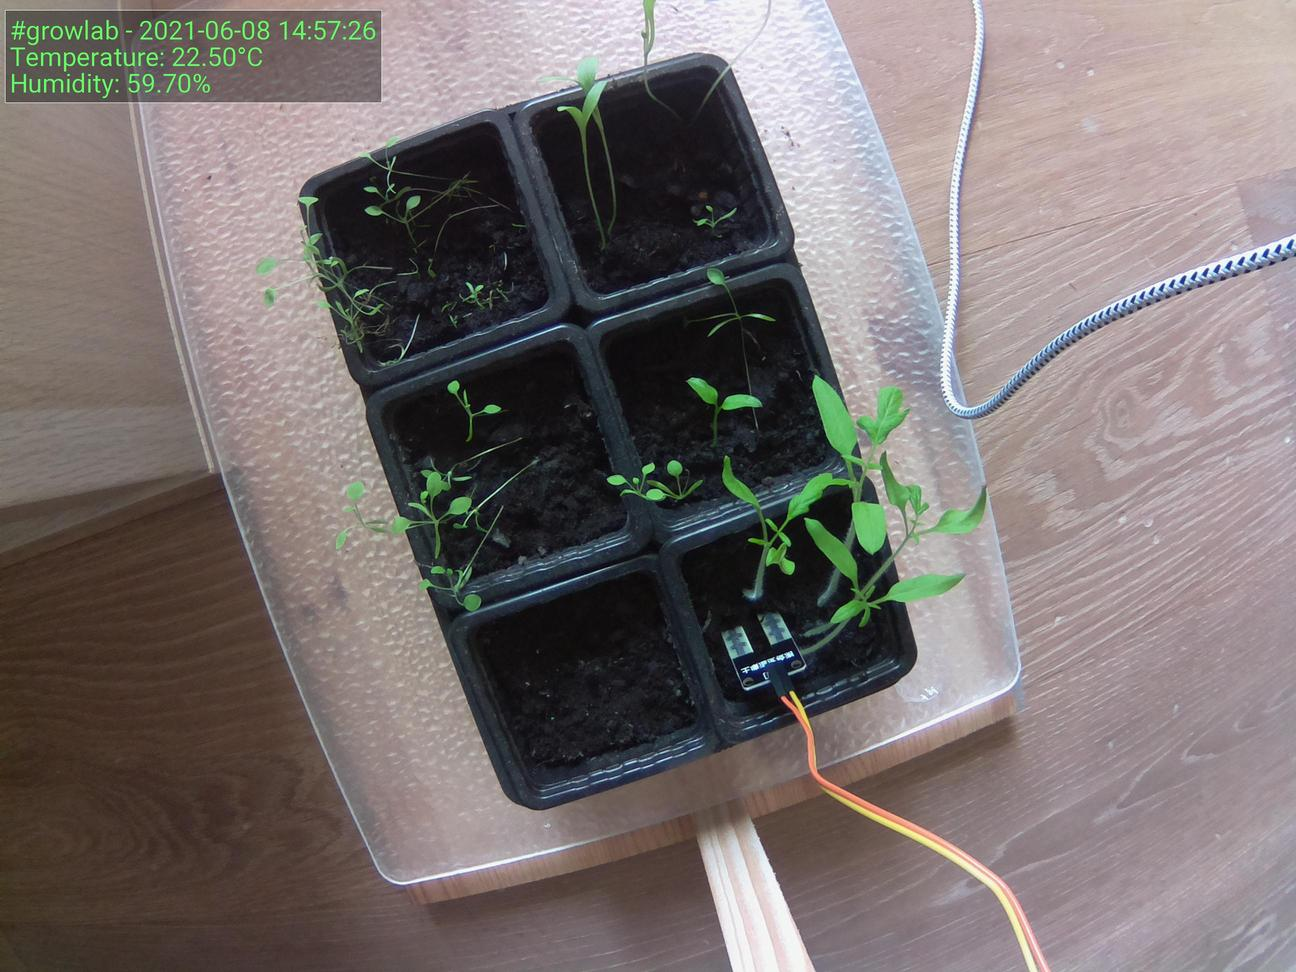
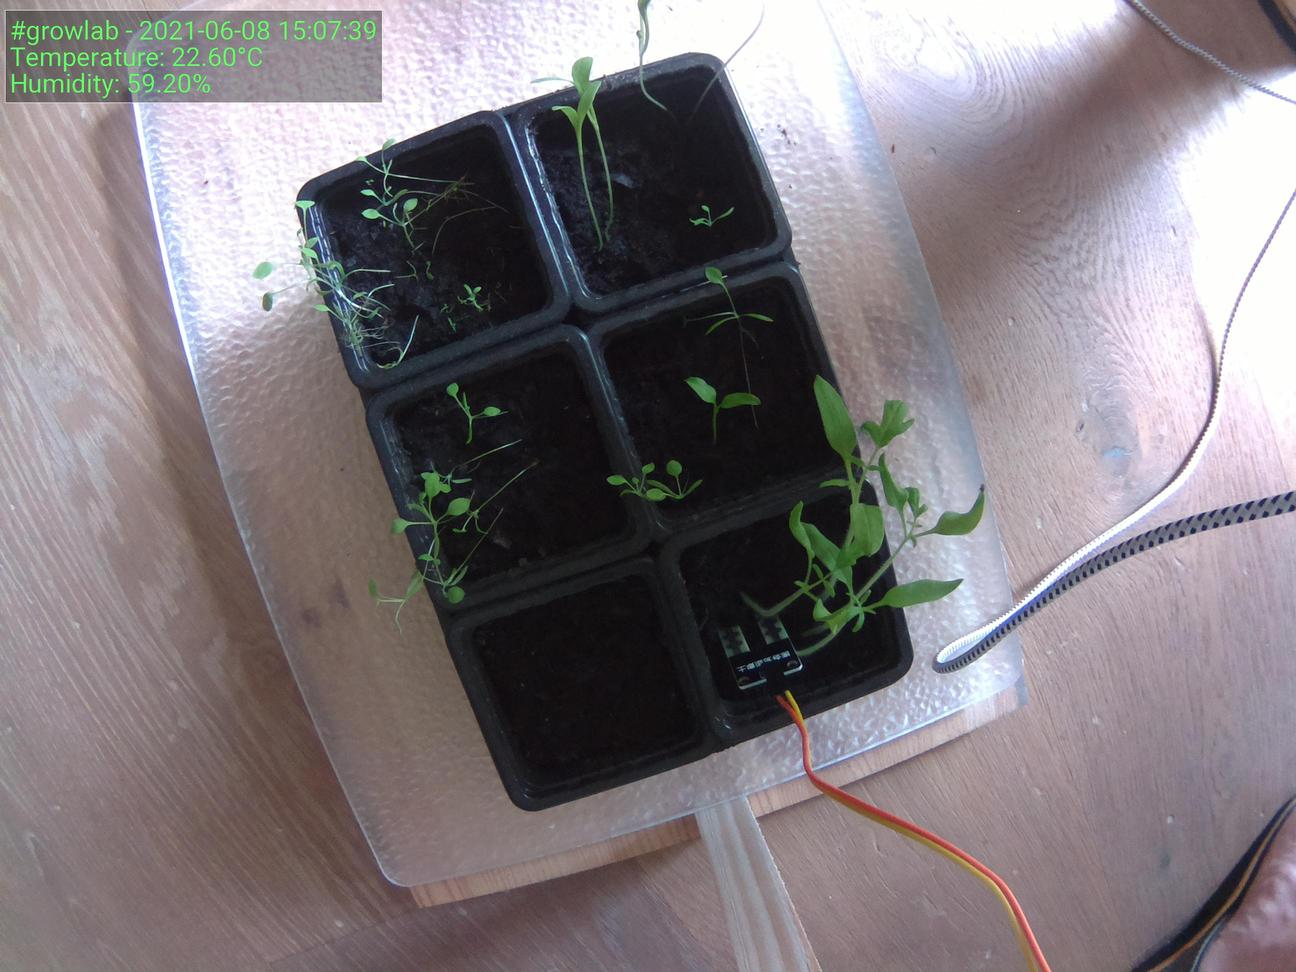
:bento: Update preview

diff --git a/index.html b/index.html
@@ -39,15 +39,15 @@
                     <tbody>
                         <tr>
                             <td>Time</td>
-                            <td>2021-06-08 14:57:26</td>
+                            <td>2021-06-08 15:07:39</td>
                         </tr>
                         <tr>
                             <td>Temperature</td>
-                            <td>22.50°C</td>
+                            <td>22.60°C</td>
                         </tr>
                         <tr>
                             <td>Humidity</td>
-                            <td>59.70%</td>
+                            <td>59.20%</td>
                         </tr>
                     </tbody>
                 </table>
@@ -55,7 +55,7 @@
 
                 <h5>Latest image</h5>
 		<div style="width: 85%;">
-	                <img class="figure-img img-fluid rounded" src="./preview.jpg?uid=1623157053.7872162">
+	                <img class="figure-img img-fluid rounded" src="./preview.jpg?uid=1623157666.4749074">
 		</div>
             </div>
         </div>
